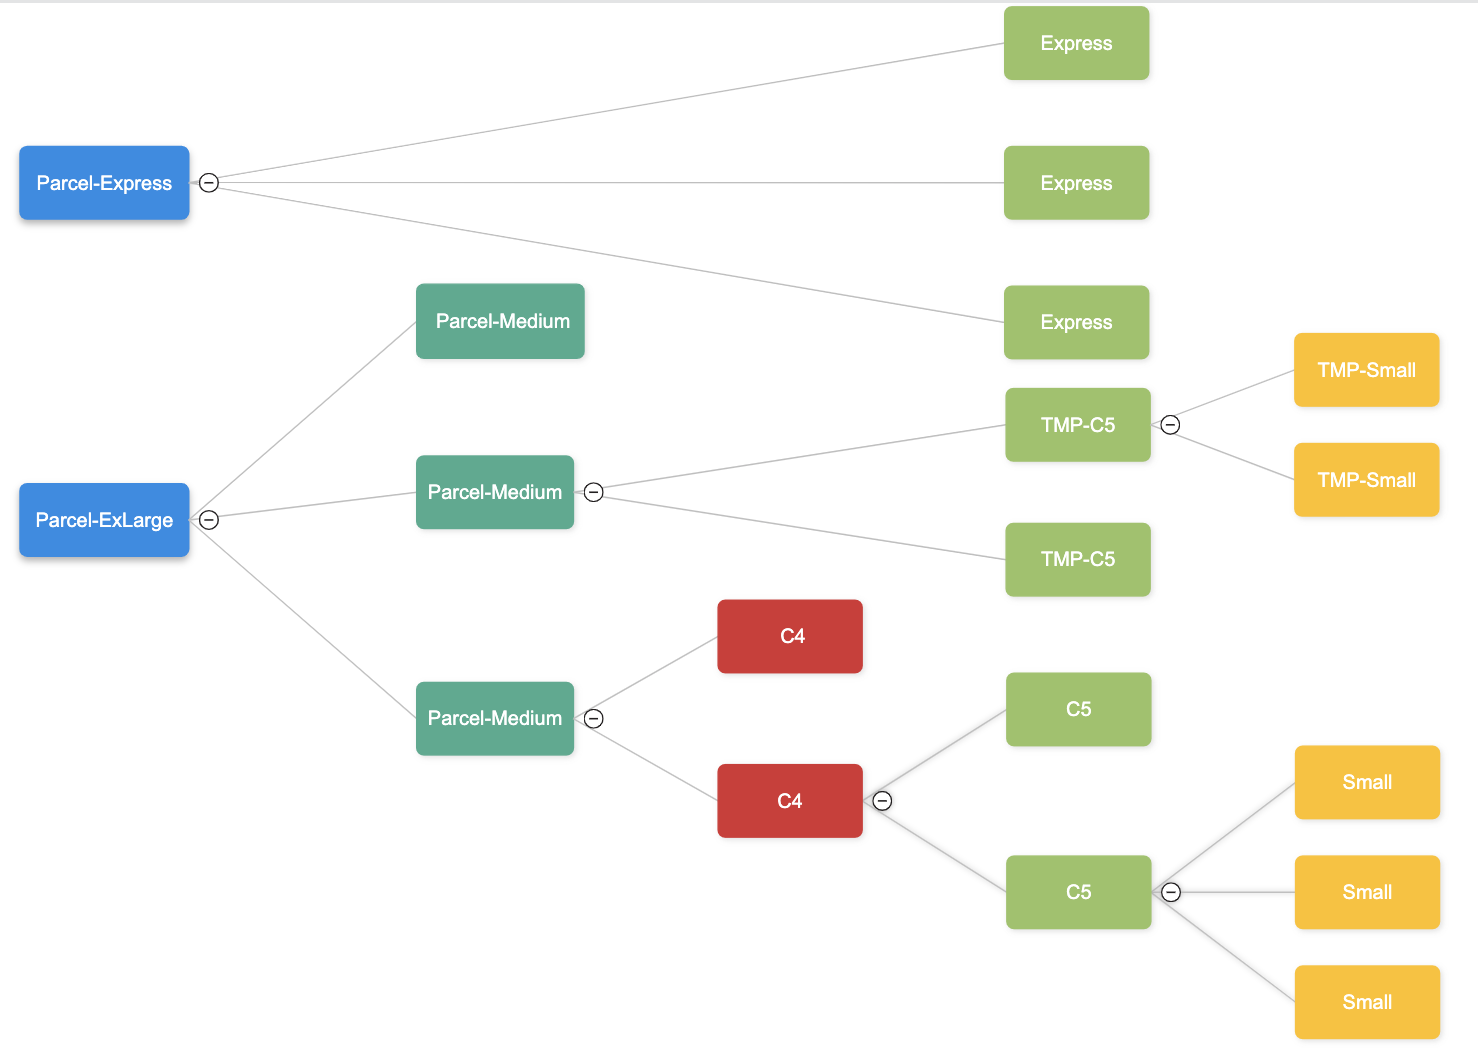
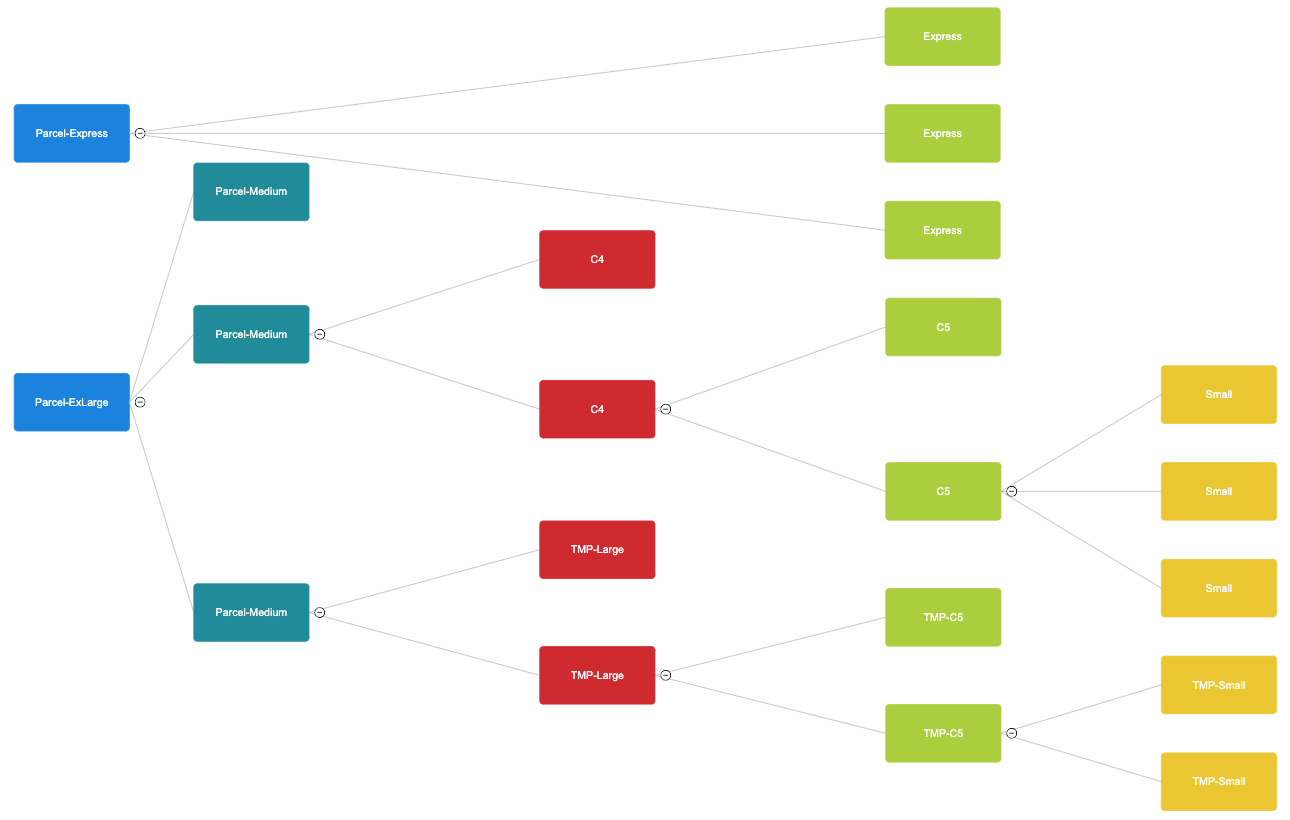
adding new tracking package type, tmp-large

diff --git a/merge.py b/merge.py
@@ -83,6 +83,7 @@ def mergePackaging(packagingDict):
     capacity_map_tracked = {
         'TMP-Small': 1,              # Same as Small
         'TMP-C5': 3,                 # Same as C5
+        'TMP-Large': 6,              # Minimum for C4
         'Parcel-Medium': 12,         # Same as Parcel-Medium
         'Parcel-ExLarge': 36,        # Same as Parcel-ExLarge
     }
@@ -98,6 +99,7 @@ def mergePackaging(packagingDict):
         'parcel-exlarge': 36,
         'tmp-small': 1,
         'tmp-c5': 3,
+        'tmp-large': 6,
         'parcel-medium': 12,
         'parcel-exLarge': 36,
         'express': 3,

diff --git a/generateLabels.py b/generateLabels.py
@@ -109,7 +109,7 @@ def trackingUpgrade(envelope):
     if envelope == "C5":
         return "TMP-C5"
     elif envelope == "C4":
-        return "Parcel-Medium"
+        return "TMP-Large"
     elif envelope == "Small":
         return "TMP-Small"
     elif envelope == "Parcel":
